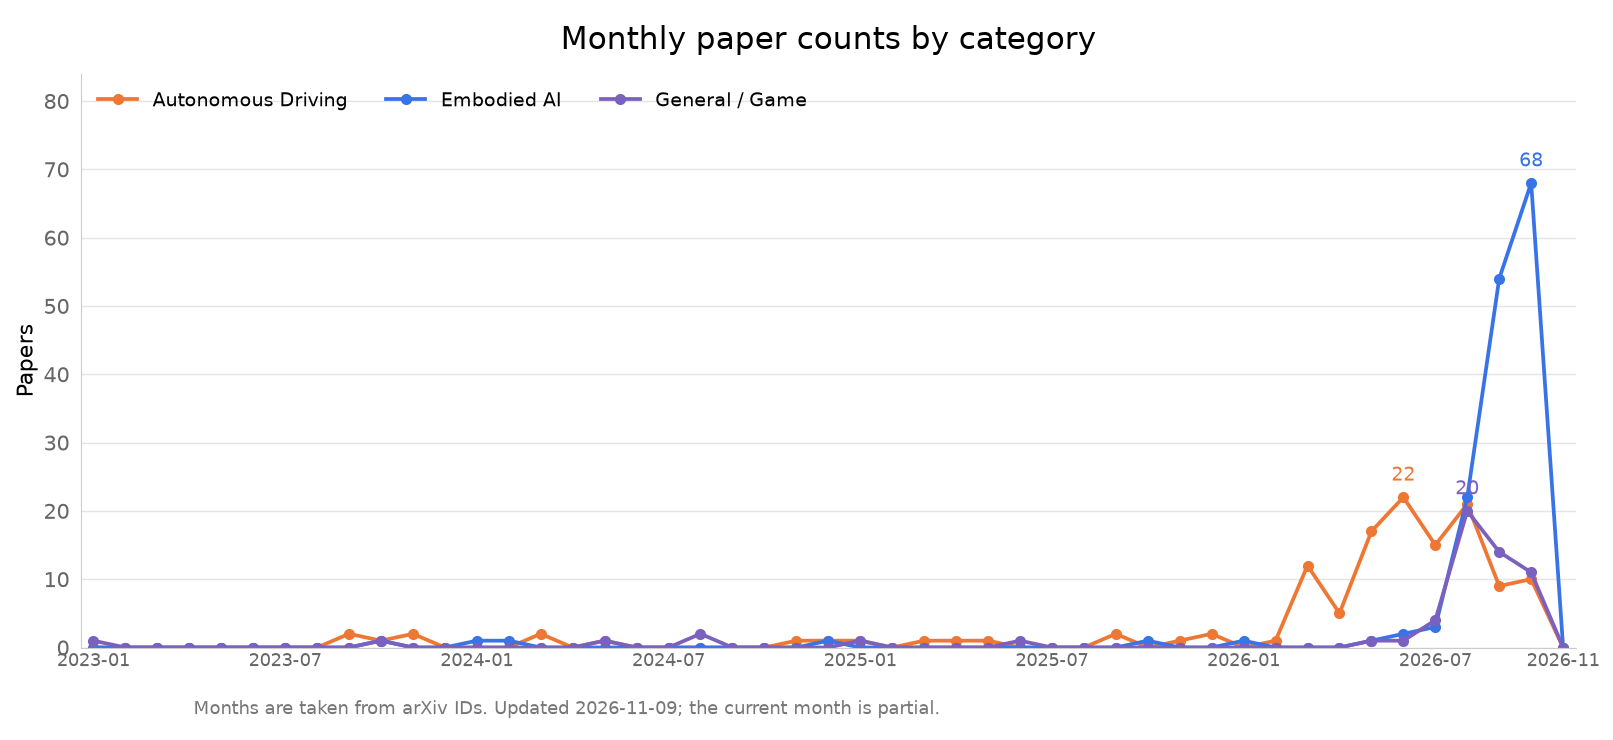
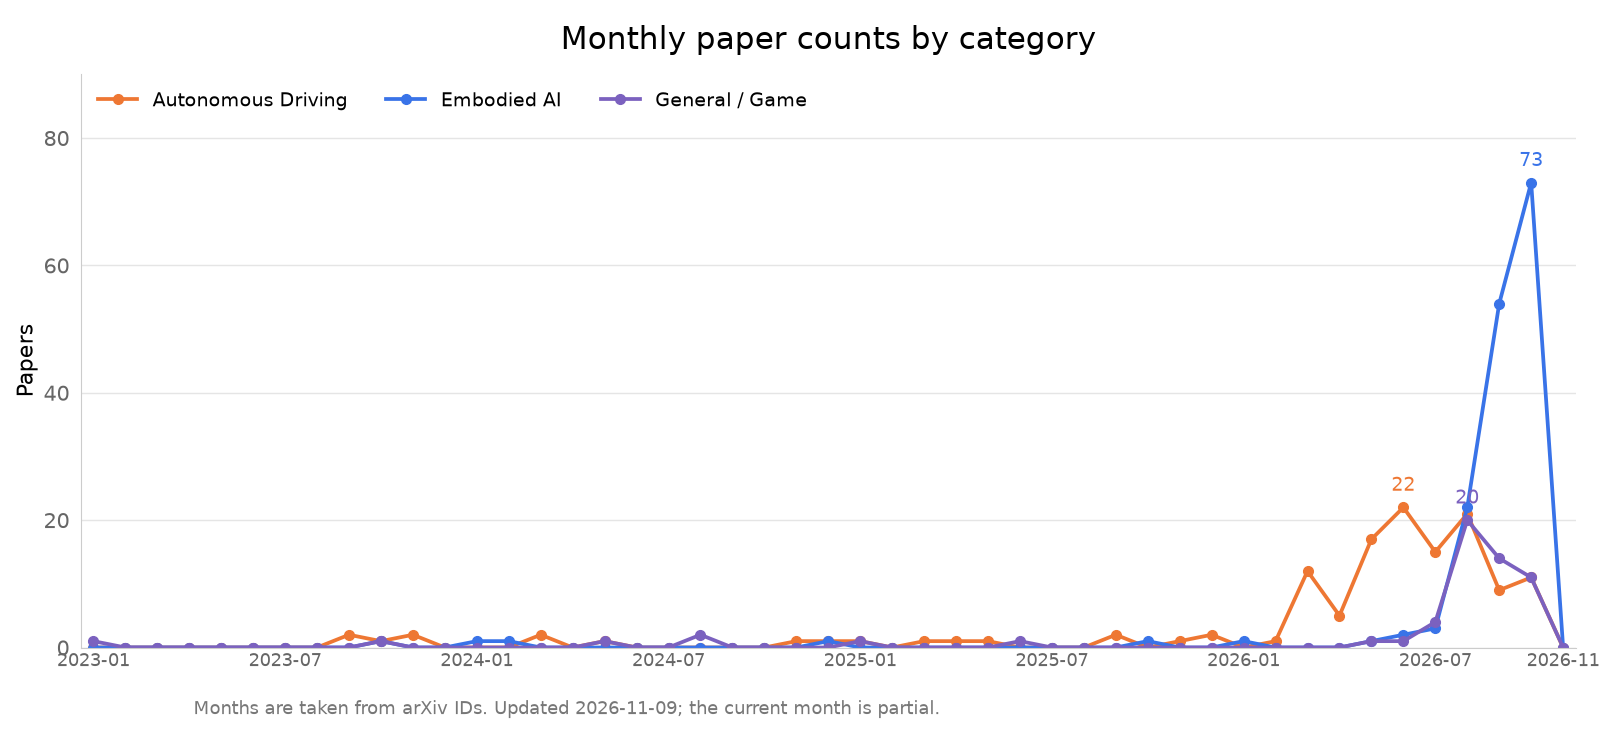
[update] WAC, AWAM, LAW, ORD-WA, BeJEPA

diff --git a/README.en.md b/README.en.md
@@ -10,7 +10,7 @@
 
 World models learn dynamic representations of their environments to predict and imagine the future. Interactive world models further support action-conditioned generation and control, providing data engines, neural simulators, and a foundation for policy learning in autonomous driving and embodied AI. This repository collects representative work, organized by application domain and annotated with its interactive capabilities.
 
-📊 **345** papers collected | Last updated: 2026-11-09
+📊 **351** papers collected | Last updated: 2026-11-09
 
 <p align="center">
   <img src="assets/interactive-world-model.en.svg" alt="Interactive world models: closed-loop interaction between agents and world models" width="760">
@@ -31,8 +31,8 @@ World models learn dynamic representations of their environments to predict and 
 
 ## Contents
 
-- [Autonomous Driving](#autonomous-driving) (131)
-- [Embodied AI](#embodied-ai) (156)
+- [Autonomous Driving](#autonomous-driving) (132)
+- [Embodied AI](#embodied-ai) (161)
 - [General / Game](#general--game) (58)
 
 ## Autonomous Driving
@@ -145,6 +145,7 @@ World models learn dynamic representations of their environments to predict and 
 | **VIScore**: Diagnosing Planning-Relevant Quality in Latent World Models | arXiv (2026) | Morgan Levine team | — | [Paper](https://arxiv.org/abs/2608.11174) | An evaluation score diagnosing planning-relevant quality issues in latent world models. |
 | **VehDyn**: A Driving World Model Benchmark for Vehicle Dynamics | arXiv (2026) | The University of Texas at Austin / University of California, Berkeley | — | [Paper](https://arxiv.org/abs/2609.33264) | Pairs CARLA images with CarSim multibody dynamics in 10080 full-factorial configurations, synchronously recording position, velocity, and pose, and evaluates trajectory, kinematic, and dynamics consistency for 12 driving-video world models. Trajectory metrics for 10/12 models are already within 20% of ground truth, but no model reaches 92% of ground-truth dynamics consistency; visual quality and dynamics scores are only weakly correlated. DrivingWorld ranks highest, followed by Cosmos 3 Nano and LTX-Video 2.5. Data and metrics will be released after acceptance. |
 | **WCog-VLA**: A Dual-Level World-Cognitive Vision-Language-Action Model for End-to-End Autonomous Driving | arXiv (2026) | Binyang Song team | — | [Paper](https://arxiv.org/abs/2607.08375) | Combines semantic-level world cognition and generative-level world evolution, with game-theoretic chain reasoning and multi-agent trajectory generation. |
+| **WAC**: World Action Critic (WAC) Model: Joint Foresight and Criticism for Policy Learning | arXiv (2026) | Tsinghua University / Didi Autonomous Driving / SunRisingAI Lab | 🎮 | [Paper](https://arxiv.org/abs/2610.22825) | Conditions future latent states on candidate trajectories and uses critic losses to shape predictive features for action evaluation. Front-camera NAVSIM-v1 PDMS is 93.4. Without focal weighting, the full model scores 93.3, removing future supervision lowers it to 93.0, and blocking critic gradients lowers it to 92.3. Evaluation is log-based and open-loop, with no closed-loop driving. |
 | **World Engine**: Towards the Era of Post-Training for Autonomous Driving | arXiv (2026) | Hongyang Li team | 🔁 | [Paper](https://arxiv.org/abs/2606.19836) | Reconstructs high-fidelity interactive environments from real logs and extrapolates safety-critical variants to drive policy post-training. |
 | **World Models as Adversaries: Multi-Agent Self-Play Fine-Tuning for Robust Motion Planning** | arXiv (2026) | Wei Ma team | — | [Paper](https://arxiv.org/abs/2607.10630) | Turns predictive world models into role-based adversaries, using counterfactual credit assignment to learn sparse adversarial coalitions. |
 | **WorldDrive**: Bridging Scene Generation and Planning via Unifying Vision and Motion Representation | arXiv (2026) | Jianbing Shen team | — | [Paper](https://arxiv.org/abs/2603.14948) | A trajectory-aware driving world model unifying visual and motion representations, with a future-aware reward model selecting trajectories. |
@@ -176,13 +177,16 @@ World models learn dynamic representations of their environments to predict and 
 | Paper | Publication | Organization | Capabilities | Links | Summary |
 | :--- | :--- | :--- | :---: | :--- | :--- |
 | **AVL-JEPA**: Preventing Causal Dynamics Information Collapse in Joint Embedding Predictive Architecture World Models | arXiv (2026) | Central South University / Yanshan University | 🎮 🔁 | [Paper](https://arxiv.org/abs/2610.03587) | JEPA can preserve high-dimensional visual information while discarding physical changes caused by actions. AVL anchors dynamics with executed actions, then aligns latent predictions affected by visual distractors with clean predictions while keeping the action head frozen. Under Gaussian input noise, PushT success rises from 15.3% to 81.5% and TwoRoom from 65.7% to 88.7%. On clean OGBench Cube, it rises from 73.2% to 78.2%. |
+| **AWAM**: Active Trajectory-Conditioned View Imagination for Robust Robot Manipulation | arXiv (2026) | Fudan University / Shanghai Innovation Institute | 🔁 | [Paper](https://arxiv.org/abs/2610.23396) | Queries a geometry-conditioned world model with a virtual camera trajectory, compresses the result into a fixed perceptual memory, and fuses it with live observations for closed-loop manipulation. Removing that memory lowers LIBERO-Occ success from 75.9% to 64.4%. Three real-robot tasks succeed in 85/90 trials. Imagination follows an observation trajectory rather than robot-action consequences, and the memory is not updated during execution. |
 | **ALONE**: Acting from Belief, Looking When Needed: A Bayesian Spatial World Model for Navigation under Intermittent Perception | arXiv (2026) | Qiyuan Lab / Tsinghua University | 🎮 🔁 | [Paper](https://arxiv.org/abs/2610.11591) | Geometrically transports spatial beliefs using executed actions, then learns completion and observation correction, using reliability maps to decide when to reacquire depth. All 10 drone trials in an indoor Lattice environment complete 10-meter navigation, acquiring depth on 7.0% of decision steps. Validation covers static environments only and still relies on visual-inertial odometry for belief propagation. |
 | **Action Jets**: Learning the Local Shape of the Action-conditioned Data Manifold | arXiv (2026) | University of Michigan | 🎮 | [Paper](https://arxiv.org/abs/2610.19007) \| [Project](https://anton-arapin.github.io/action-jets-site/) | Extracts action tangents from a frozen generator and learns third-order corrections, then evaluates candidate action outcomes in batches with polynomials. In offline verification of 32 action candidates on BridgeData V2, action MSE is 0.025 versus 0.030 for IRASim. Zero action is constrained to the identity map; evaluation is short-horizon and open-loop, with worse image quality than IRASim at steps 3–4. |
 | **Rollout Truncation**: Adaptive Rollout Truncation Based on Epistemic Uncertainty for Efficient Offline World Model Training | arXiv (2026) | TUM | 🎮 ⏳ | [Paper](https://arxiv.org/abs/2609.21482) | Multi-step autoregression extends world-model predictions, but fixed rollout lengths amplify early errors and waste computation while the model remains inaccurate. After warm-up, a rollout is truncated when epistemic uncertainty exceeds a threshold. On ANYmal-D, prediction accuracy is comparable to fixed-length rollouts and RWM-U, with approximately 72% less rollout computation. |
 | **AnisoWM**: Anisotropic Representations Improve Planning in JEPA World Models | arXiv (2026) | Seoul National University / Ewha Womans University | 🎮 🔁 | [Paper](https://arxiv.org/abs/2609.37441) \| [Project](https://rkdrn79.github.io/AnisoWM-page/) | Keeps the predictor and Euclidean planner unchanged, replacing only an isotropic Gaussian target with a learnable diagonal covariance. Planning success exceeds LeWM in all four environments: TwoRoom rises from 87% to 93%, Reacher from 86% to 89%, PushT from 96% to 97%, and Cube from 74% to 79%. Spearman correlation between latent cost and task cost increases from 0.15 to 0.91 on Cube and from 0.65 to 0.92 on PushT. |
 | **AnyWorld**: Factorized Egocentric World Models for Cross-Embodiment Generalization | arXiv (2026) | — | 🎮 | [Paper](https://arxiv.org/abs/2608.29242) | Decomposes a single human interaction into three controllable factors: action, camera, and embodiment. Action control captures motion structure, camera control specifies viewpoint evolution, and target-embodiment context defines the executing body and its interaction geometry. Without paired human-robot demonstrations, an egocentric human video can be recomposed into diverse robot-native rollouts while preserving the underlying dynamics and object interactions. Following large-scale human-interaction pretraining and mixed-embodiment fine-tuning, generated data improve manipulation on the RoboCasa GR1 tabletop benchmark and the real IRON humanoid robot. Ablations show that both action calibration and visual recomposition are necessary. |
 | **Back on Track**: Deployment-time Policy Improvement via World Model Planning | arXiv (2026) | Stanford University / University of Southern California | 🎮 🔁 | [Paper](https://arxiv.org/abs/2610.19579) \| [Project](https://policy-improvement-wm.pages.dev/) | A policy-conditioned liveness value monitors execution and guides short corrective plans in a latent world model; across 3,000 paired trials on perturbed LIBERO-Goal, π0.5 success rises from 72.6% to 81.5%. Policy- and task-specific data are required, and model errors can still disrupt otherwise successful executions. |
+| **BeJEPA**: A Goal-Conditioned Humanoid Behavior World Model via Unsupervised RL | arXiv (2026) | Shanghai Jiao Tong University / Shanghai Innovation Institute / Zhejiang University / Tongji University / Fudan University / Lenovo Research | 🎮 🔁 | [Paper](https://arxiv.org/abs/2610.23127) \| [Project](https://ylyem9x.github.io/BeJEPA-project/) | An action-conditioned dynamic predictor forecasts the next state embedding and refines actions online. In 20-second motion tracking, global body-position error falls by 61.7% relative to BFM-Zero with world-pose inputs. Disturbance recovery and getting up on a Unitree G1 are qualitative demonstrations. |
 | **Continual WM Bench**: Benchmarking World Models for Continual Learning on Compositional Tasks | arXiv (2026) | Oxford | — | [Paper](https://arxiv.org/abs/2609.22055) | A continual-learning benchmark for manipulation world models. New tasks at the end of the curriculum recombine action and perceptual factors from previously seen tasks, separating fast learning from the ability to reuse learned dynamics. Modular dynamics better balance reuse and forgetting than conventional continual-learning methods, but no method fully solves the problem. |
+| **HIJP**: Beyond Action Prediction: Learning Search-Free Planning in Latent Space | arXiv (2026) | Nanjing University of Science and Technology / University of Oxford / Singapore University of Technology and Design / Adelaide University | 🎮 🔁 | [Paper](https://arxiv.org/abs/2610.23615) | A goal-conditioned inverse model alternates with an action-conditioned latent predictor to build multi-step plans without test-time action search. Across four visual-control tasks, 16 difficulty combinations, and 50 episodes each, overall success is 86.8%, 4.9 points above the strongest baseline. Removing transition consistency lowers average success on 12 combinations from 82.5% to 76.0%. Evaluation is simulation-only, with a fixed planning horizon. |
 | **HF-WM**: Beyond Successful Robot Demonstrations: Learning from Human Interactions and Modeling Failure Dynamics | arXiv (2026) | Zhejiang University / Beijing Zhongguancun Academy / University of Science and Technology of China / Eastern Institute of Technology / Institute of Automation, Chinese Academy of Sciences | 🎮 🔁 | [Paper](https://arxiv.org/abs/2610.13522) \| [Project](https://peiyantu.github.io/HF-WM/) | Stabilized pointflow couples human and robot interaction learning, while action perturbations and GRPO train failure dynamics; success-rate estimates have a mean absolute error of 2.41 percentage points across six policies with 90 matched hardware sessions each, but scoring relies on VLMs and closed-loop gains are validated only on LIBERO-90. |
 | **Dual-WM**: Beyond a Single Latent Space: A Dual-Latent World Model for Long-Horizon Planning | arXiv (2026) | Nanjing University / Shanghai Jiao Tong University / Shenzhen Institutes of Advanced Technology / Shenzhen University of Advanced Technology | 🎮 🔁 ⏳ | [Paper](https://arxiv.org/abs/2609.37644) \| [Code](https://github.com/DeLin1001/Dual-WM-Official) | Uses low-level latent space for fine-grained action transitions and learned macro-actions at the high level for long-horizon subgoals. Across five goal-conditioned visual-control tasks, average success rises from 75.9% to 84.4% for a 50-step goal offset and from 61.4% to 69.5% for a 100-step offset. At 100 steps, it exceeds LeWM by 30.8 percentage points. |
 | **CF-JEPA**: Improving Robustness of JEPA World Models via Controllability Factorization | arXiv (2026) | Georgia Institute of Technology / Georgia Tech Research Institute | 🎮 🔁 | [Paper](https://arxiv.org/abs/2610.00727) | Splits JEPA's latent space into controllable and uncontrollable components and plans only with the controllable component. Under two visual distractors, LeWM collapses on all tasks; Reacher success is 0.10 for SMWM and 0.48 for CF-JEPA. With additional distractors, SMWM's PushT and TwoRoom success drops from 0.86 and 0.98 to 0.27 and 0.46, while CF-JEPA maintains 0.57 and 0.82. |
@@ -244,6 +248,7 @@ World models learn dynamic representations of their environments to predict and 
 | **JEPA-TTT**: Persistent Test-Time Training of Latent World Models for Planning under Dynamics Shifts | arXiv (2026) | Honda Research Institute / Johns Hopkins University | 🎮 🔁 | [Paper](https://arxiv.org/abs/2610.00722) \| [Project](https://jepa-ttt.github.io/) | At test time, updates only the latent-dynamics predictor of a pretrained JEPA, freezing the encoder and reward head, with updates accumulating across episodes. Across four continuous-control environments and eight dynamics shifts, after 500 test episodes, autoregressive latent-prediction error decreases by an average of 83%, and planning performance is 153% higher than frozen JEPA. Planning requires no goal images or online environment rewards. |
 | **JEPA-x**: Cross-Predictive Physics Grounding for Forecastable Latent Dynamics | arXiv (2026) | NUS | 🎮 🔁 | [Paper](https://arxiv.org/abs/2608.24044) | Also called XP-JEPA. During training, visual observations and privileged physical states are treated as two views of the same action-conditioned trajectory for cross-prediction, constraining latent dynamics to be more predictable. The physical branch is discarded at deployment; multi-task control success rises from 53.6% to 78.2%. |
 | **Juno**: Taming Predictive Latents for Vision-Language-Action Models | arXiv (2026) | Eastern Institute of Technology, Ningbo / University of Science and Technology of China / Hangzhou Dianzi University / ShanghaiTech University | 🎮 🔁 | [Paper](https://arxiv.org/abs/2610.09940) \| [Project](https://juno-policy.github.io/) \| [Code](https://github.com/ZhuYuChenNO1/Juno) | Uses dynamic-CLS pretraining of an action-conditioned JEPA and a separate future-state distillation branch to support a VLA. At deployment, successful and failed interactions first adapt dynamics, then verified successful executions realign the policy. Average SimplerEnv success rises from Qwen3GR00T's 60.9% to 68.5%, reaching 72.7% with test-time adaptation. |
+| **LAW**: Unifying Language, Action, and World Modeling for Agentic Physical Intelligence | arXiv (2026) | Peking University / Beijing Innovation Center of Humanoid Robotics | 🔁 | [Paper](https://arxiv.org/abs/2610.23334) \| [Project](https://hey-cjj.github.io/LAW-project/) \| [Code](https://github.com/hey-cjj/LAW) | Jointly predicts video and actions during training, then fuses action chunks with a value expert at inference without generating future video. Average success across 50 RoboTwin tasks is 94.21%, versus 91.83% for Fast-WAM. Three long-horizon real-robot tasks average 65% over 20 trials each, versus 28.33% for π0.5. With matched parameter counts, the shared expert raises MoTE from 91.93% to 92.67%. |
 | **LeWAM (Fu et al.)**: LeWAM: End-to-End World and Action Modeling with JEPAs | arXiv (2026) | UC San Diego / ETH Zurich / University of British Columbia / Brown University | 🎮 🔁 | [Paper](https://arxiv.org/abs/2610.12818) \| [Project](https://le-wam.github.io/) \| [Code](https://github.com/MinghaoFu/lewam) | Jointly trains action-conditioned latent-state prediction and action flow matching with SIGReg regularization; mean visual-goal planning success is 93.5% across ten simulated tasks versus 50.9% for LeWM (CEM), while mean closed-loop success across three physical-robot tasks is 33.3%; models are still trained separately per task and robot. |
 | **LiteNWM**: Efficient Latent World Models for Onboard Visual Navigation in the Wild | arXiv (2026) | Nanjing University / Imperial College London / Sony AI / Beijing University of Posts and Telecommunications | 🎮 🔁 | [Paper](https://arxiv.org/abs/2610.12368) | Shares visual encoding to jointly predict candidate-action latents at four future horizons, then uses relative scoring to select trajectories from a frozen policy. Across three scenes and 30 Go2 trials per method, success rises from NoMaD's 43.3% to 83.3%. Planning calls average 2.228 seconds on Jetson Orin; this is not frame-rate real-time generation. |
 | **LoopWAM**: Closed-Loop Generalist Policy Improvement from Deployment Rollouts | arXiv (2026) | Tsinghua University / Dexmal / Loopeva | 🔁 | [Paper](https://arxiv.org/abs/2610.18873) \| [Project](https://loop-wam.github.io/) \| [Code](https://github.com/loop-wam/LoopWAM) | Quality-weighted parallel video–action denoising learns from successful and failed deployment experience; three collection-and-retraining rounds raise Table30-V2 success from 23.67% to 43.33%, requiring quality labels and additional real-robot collection. |
@@ -253,6 +258,7 @@ World models learn dynamic representations of their environments to predict and 
 | **MiniWAM**: Learning Compact Future Targets for Efficient World-Action Modeling | arXiv (2026) | National University of Singapore / Nanyang Technological University / A*STAR Institute of Advanced Intelligence and Computing | 🔁 | [Paper](https://arxiv.org/abs/2610.12194) \| [Project](https://j1dan.github.io/MiniWAM/) \| [Code](https://github.com/J1dan/MiniWAM-release) | First compresses current-to-future transitions into PRISM representations using inverse dynamics and feature reconstruction, then jointly predicts those representations and robot actions. With the same 0.25B world-action architecture and Stage-2 training, the DINOv3 variant improves success on the fixed LIBERO-Plus-2K subset from 60.9% with native future-feature targets to 74.1%. Evaluation is simulation-only, and PRISM is still learned separately for each downstream setting. |
 | **Motus2**: A Self-Evolving General World Model for Dexterous Manipulation | arXiv (2026) | Tsinghua University (Jun Zhu / Fan Bao team) | 🎮 🔁 | [Paper](https://arxiv.org/abs/2608.30237) | Moves beyond the paradigm of attaching an action head to a simulator. A single model with shared weights exposes three control interfaces to form a closed-loop decision-learning cycle: the policy (world-action model) proposes candidate action chunks, the simulator (action-conditioned world model) predicts visual consequences, and the evaluator (value model) assesses the predicted results, enabling policy self-improvement. Expert demonstrations support action learning, while failed and suboptimal interactions provide valuable evidence for dynamics modeling and value learning. Data expand from monocular egocentric video to synchronized stereo egocentric data before robot-domain adaptation. The work also studies global autoregression and hybrid memory to extend sliding-window context, and incorporates touch for contact-aware control, validated on a fully anthropomorphic platform with stereo vision, dual arms, and dexterous hands. |
 | **No Free Checker: A Survey of Verifiers for Robot Policies** | arXiv (2026) | Zhejiang University | — | [Paper](https://arxiv.org/abs/2609.09250) \| [Code](https://github.com/ZJUSCL/Awesome-Robot-Verifier) | Surveys approximately 150 robot-policy verifiers, including success detectors, reward models, runtime monitors, safety filters, temporal logic, and world-model evaluations. It compares four types of judges—human, rule-based/formal, learned, and model-inherent—along availability and trustworthiness. The conclusion is that trustworthiness decreases as availability increases; there is no free checker. |
+| **ORD-WM**: Learning Object-Centric Rigid Dynamics for 3D World Modeling in Robotic Manipulation | arXiv (2026) | Harbin Institute of Technology, Shenzhen | 🎮 🔁 | [Paper](https://arxiv.org/abs/2610.23156) \| [Project](https://hitsz-wyy.github.io/ORD-WM/) | Predicts an action-conditioned SE(3) increment for each object and applies it analytically to a geometric latent. Against PointWorld fine-tuned on LIBERO, full-trajectory moving-point error falls from 225.68 mm to 37.60 mm, with shape-consistency Chamfer distance 0. Real pushing with 1,024 candidates reaches 90% success and 0.972 cm position error; the table does not state the trial count, and the model covers rigid bodies only. |
 | **RoboActualizer**: One from Infinity: Actualizing Futures from Pretrained World Models into Robot Actions | arXiv (2026) | University of California, Berkeley | 🎮 🔁 | [Paper](https://arxiv.org/abs/2609.36413) \| [Project](https://zhao-sq.github.io/RoboActualizer/) \| [Code](https://github.com/7mare/RoboActualizer) | Freezes a V-JEPA 2.1 encoder and uses a 60M actualizer above it to jointly predict future latent states and actions. Average LIBERO success is 98.0%. When trained only on LIBERO demonstrations without perturbation augmentation, LIBERO-Plus success is 63.1%, compared with 51.5% for Fast-WAM (6.02B trainable parameters). Peak memory on one GPU is 32 GB and inference takes 39 ms. Trainable parameters are reduced by up to approximately 100×. |
 | **PAVXploreRL**: Physical-Action-Visual World Model Reinforcement Learning with Action Exploration | arXiv (2026) | Sun Yat-sen University / SUTD | 🎮 🔁 | [Paper](https://arxiv.org/abs/2607.16602) \| [Code](https://github.com/Social-AI-Studio/PAVXploreRL) | Uses reinforcement learning on a pretrained latent world model to jointly optimize physical plausibility, action following, and visual fidelity. Noise-driven exploration of out-of-distribution actions supplements actions not covered by expert trajectories. As a policy evaluator, it improves average metrics by 5.6% and mitigates the overestimation of policy success by world models such as Ctrl-World that have seen only expert actions. |
 | **PILOT**: Guiding Long-Horizon World-Model Planning for Robot Manipulation with Visual Subgoals and Policy Priors | arXiv (2026) | University of Minnesota | 🎮 🔁 | [Paper](https://arxiv.org/abs/2610.14335) \| [Project](https://pilot-planner.github.io/) | Guides policy-initialized CEM with video subgoals and evaluates actions through a receding-horizon action-conditioned JEPA world model. Across four UR5e tasks it succeeds in 55/80 trials (68.8%), versus 44/80 (55.0%) without policy initialization. Wan and the policy each use the same 40 demonstrations, while the world model additionally uses roughly five hours of random interaction; fixed subgoal timing limits failure recovery. |

diff --git a/README.md b/README.md
@@ -10,7 +10,7 @@
 
 世界模型 (World Model) 通过学习环境的动态表征，实现对未来的预测与想象； 可交互世界模型进一步支持以动作 (action) 为条件的生成与控制， 为自动驾驶和具身智能提供数据引擎、神经仿真器与策略学习基础。 本仓库收录并整理该方向的代表性工作，按应用场景分类， 并标注每篇工作的交互能力维度。
 
-📊 共收录 **345** 篇工作 ｜ 最后更新：2026-11-09
+📊 共收录 **351** 篇工作 ｜ 最后更新：2026-11-09
 
 <p align="center">
   <img src="assets/interactive-world-model1.png" alt="交互式世界模型：智能体与世界模型的闭环交互" width="760">
@@ -31,8 +31,8 @@
 
 ## 目录
 
-- [自动驾驶 Autonomous Driving](#自动驾驶-autonomous-driving)（131）
-- [具身智能 Embodied AI](#具身智能-embodied-ai)（156）
+- [自动驾驶 Autonomous Driving](#自动驾驶-autonomous-driving)（132）
+- [具身智能 Embodied AI](#具身智能-embodied-ai)（161）
 - [通用 / 游戏 General / Game](#通用--游戏-general--game)（58）
 
 ## 自动驾驶 Autonomous Driving
@@ -145,6 +145,7 @@
 | **VIScore**: Diagnosing Planning-Relevant Quality in Latent World Models | arXiv (2026) | Morgan Levine 团队 | — | [论文](https://arxiv.org/abs/2608.11174) | 诊断潜世界模型中与规划相关的质量问题的评价分数。 |
 | **VehDyn**: A Driving World Model Benchmark for Vehicle Dynamics | arXiv (2026) | 得克萨斯大学奥斯汀分校 / 加州大学伯克利分校 | — | [论文](https://arxiv.org/abs/2609.33264) | 用 CARLA 画面配 CarSim 多体动力学，10080 组全因子配置，同步记录位置、速度和姿态，评 12 个驾驶视频世界模型的轨迹、运动学和动力学一致性。10/12 的轨迹指标已在真值 20% 以内，动力学一致性没有模型达到真值的 92%，画质和动力学得分只弱相关。DrivingWorld 最高，其后是 Cosmos 3 Nano 和 LTX-Video 2.5。数据和指标在接收后放出。 |
 | **WCog-VLA**: A Dual-Level World-Cognitive Vision-Language-Action Model for End-to-End Autonomous Driving | arXiv (2026) | Binyang Song 团队 | — | [论文](https://arxiv.org/abs/2607.08375) | 语义级世界认知 + 生成级世界演化双层级，博弈链式推理与多智能体轨迹生成。 |
+| **WAC**: World Action Critic (WAC) Model: Joint Foresight and Criticism for Policy Learning | arXiv (2026) | Tsinghua University / Didi Autonomous Driving / SunRisingAI Lab | 🎮 | [论文](https://arxiv.org/abs/2610.22825) | 用候选轨迹条件化未来潜状态，并用评论损失把预测特征拉向动作评价。仅前相机的 NAVSIM-v1 PDMS 为 93.4。去掉 focal 后，完整模型为 93.3，去掉未来监督降到 93.0，阻断评论梯度降到 92.3。评测是日志开环，没有闭环驾驶。 |
 | **World Engine**: Towards the Era of Post-Training for Autonomous Driving | arXiv (2026) | Hongyang Li 团队 | 🔁 | [论文](https://arxiv.org/abs/2606.19836) | 从真实日志重建高保真交互环境并外推安全关键变体，驱动策略后训练。 |
 | **World Models as Adversaries: Multi-Agent Self-Play Fine-Tuning for Robust Motion Planning** | arXiv (2026) | Wei Ma 团队 | — | [论文](https://arxiv.org/abs/2607.10630) | 将预测世界模型转化为角色化对手，通过反事实信用分配学习稀疏对抗联盟。 |
 | **WorldDrive**: Bridging Scene Generation and Planning via Unifying Vision and Motion Representation | arXiv (2026) | Jianbing Shen 团队 | — | [论文](https://arxiv.org/abs/2603.14948) | 轨迹感知驾驶世界模型统一视觉与运动表征，未来感知奖励器选优轨迹。 |
@@ -176,13 +177,16 @@
 | 论文 | 发表 | 机构 | 交互能力 | 链接 | 一句话点评 |
 | :--- | :--- | :--- | :---: | :--- | :--- |
 | **AVL-JEPA**: Preventing Causal Dynamics Information Collapse in Joint Embedding Predictive Architecture World Models | arXiv (2026) | 中南大学 / 燕山大学 | 🎮 🔁 | [论文](https://arxiv.org/abs/2610.03587) | JEPA 可以保住高维视觉信息，同时丢掉动作造成的物理变化。AVL 用已执行动作锚定动力学，再把受视觉干扰的潜预测对齐到干净预测，动作头保持冻结。高斯输入噪声下，PushT 成功率从 15.3% 到 81.5%，TwoRoom 从 65.7% 到 88.7%。干净的 OGBench Cube 从 73.2% 到 78.2%。 |
+| **AWAM**: Active Trajectory-Conditioned View Imagination for Robust Robot Manipulation | arXiv (2026) | Fudan University / Shanghai Innovation Institute | 🔁 | [论文](https://arxiv.org/abs/2610.23396) | 用虚拟相机轨迹查询几何条件世界模型，把想象结果压成固定感知记忆，再与实时观测融合做闭环操作。LIBERO-Occ 去掉该记忆后，成功率从 75.9% 降到 64.4%。三真机任务共 85/90。想象的是观察轨迹，不是机器人动作后果，记忆在执行过程中不更新。 |
 | **ALONE**: Acting from Belief, Looking When Needed: A Bayesian Spatial World Model for Navigation under Intermittent Perception | arXiv (2026) | 启元实验室 / 清华大学 | 🎮 🔁 | [论文](https://arxiv.org/abs/2610.11591) | 先按已执行动作几何搬运空间信念，再学习补全与观测修正，并用可靠性图决定何时重新获取深度。室内 Lattice 环境的 10 次无人机试验全部完成 10 米导航，深度采集占决策步的 7.0%；仅验证静态环境，仍依赖视觉惯性里程计传播信念。 |
 | **Action Jets**: Learning the Local Shape of the Action-conditioned Data Manifold | arXiv (2026) | University of Michigan | 🎮 | [论文](https://arxiv.org/abs/2610.19007) \| [项目](https://anton-arapin.github.io/action-jets-site/) | 从冻结生成器提取动作切线并学习三阶校正，随后用多项式批量评估动作后果。BridgeData V2 离线 32 候选动作验证中，动作 MSE 为 0.025，IRASim 为 0.030；零动作被约束为恒等映射，仅验证短时开环，第 3–4 步画质落后于 IRASim。 |
 | **Rollout Truncation**: Adaptive Rollout Truncation Based on Epistemic Uncertainty for Efficient Offline World Model Training | arXiv (2026) | TUM | 🎮 ⏳ | [论文](https://arxiv.org/abs/2609.21482) | 多步自回归能拉长世界模型的预测，但固定展开长度在模型还不准时会放大早期错误并浪费计算。热身之后，认知不确定性超过阈值就截断这次展开。在 ANYmal-D 上，预测精度与固定长度和 RWM-U 相当，展开计算大约少 72%。 |
 | **AnisoWM**: Anisotropic Representations Improve Planning in JEPA World Models | arXiv (2026) | 首尔大学 / 梨花女子大学 | 🎮 🔁 | [论文](https://arxiv.org/abs/2609.37441) \| [项目](https://rkdrn79.github.io/AnisoWM-page/) | 预测器和欧氏规划器不动，只把各向同性高斯目标换成可学习的对角协方差。四个环境的规划成功率都高于 LeWM：TwoRoom 87% 到 93%，Reacher 86% 到 89%，PushT 96% 到 97%，Cube 74% 到 79%。Cube 上潜代价与任务代价的 Spearman 相关从 0.15 到 0.91，PushT 从 0.65 到 0.92。 |
 | **AnyWorld**: Factorized Egocentric World Models for Cross-Embodiment Generalization | arXiv (2026) | — | 🎮 | [论文](https://arxiv.org/abs/2608.29242) | 把单次人类交互分解为动作、相机、本体三个可控因子——动作控制捕捉运动结构、相机控制指定视角演化、目标本体上下文定义执行身体及其交互几何，无需成对 human-robot 演示即可将一段第一视角人类视频重组合成多样的机器人原生 rollout，同时保留底层动力学与物体交互；经大规模人类交互预训练+混合本体微调，生成数据可提升 RoboCasa GR1 桌面基准与真机 IRON 人形机器人操作性能，消融表明动作校准与视觉重组合二者缺一不可。 |
 | **Back on Track**: Deployment-time Policy Improvement via World Model Planning | arXiv (2026) | Stanford University / University of Southern California | 🎮 🔁 | [论文](https://arxiv.org/abs/2610.19579) \| [项目](https://policy-improvement-wm.pages.dev/) | 以策略条件活性价值监测执行并引导潜空间世界模型的短时纠偏，在扰动 LIBERO-Goal 的 3,000 次配对试验中将 π0.5 成功率从 72.6% 提升至 81.5%；需策略与任务相关数据，模型误差仍会破坏原本成功的执行。 |
+| **BeJEPA**: A Goal-Conditioned Humanoid Behavior World Model via Unsupervised RL | arXiv (2026) | Shanghai Jiao Tong University / Shanghai Innovation Institute / Zhejiang University / Tongji University / Fudan University / Lenovo Research | 🎮 🔁 | [论文](https://arxiv.org/abs/2610.23127) \| [项目](https://ylyem9x.github.io/BeJEPA-project/) | 用动作条件动态预测器预测下一状态嵌入，并在线修正动作。20 秒运动跟踪中，相对带世界位姿输入的 BFM-Zero，全局身体位置误差下降 61.7%。Unitree G1 上的扰动恢复和起身是定性演示。 |
 | **Continual WM Bench**: Benchmarking World Models for Continual Learning on Compositional Tasks | arXiv (2026) | Oxford | — | [论文](https://arxiv.org/abs/2609.22055) | 操作世界模型的持续学习基准。课程末尾的新任务由已见任务的动作因素和感知因素重新组合，从而把学得快和会不会复用已学动力学拆开。模块化动力学比常规持续学习方法更平衡复用和遗忘，但没有一种方法把这个问题做完。 |
+| **HIJP**: Beyond Action Prediction: Learning Search-Free Planning in Latent Space | arXiv (2026) | Nanjing University of Science and Technology / University of Oxford / Singapore University of Technology and Design / Adelaide University | 🎮 🔁 | [论文](https://arxiv.org/abs/2610.23615) | 目标条件逆模型与动作条件潜预测交替生成多步计划，测试时不做动作搜索。四项视觉控制、16 个难度组合、各 50 次的总成功率为 86.8%，比最强基线高 4.9 个百分点。去掉转移一致性后，12 个组合的平均成功率从 82.5% 降到 76.0%。只在仿真中验证，规划时程固定。 |
 | **HF-WM**: Beyond Successful Robot Demonstrations: Learning from Human Interactions and Modeling Failure Dynamics | arXiv (2026) | 浙江大学 / 北京中关村学院 / 中国科学技术大学 / 宁波东方理工大学 / 中科院自动化所 | 🎮 🔁 | [论文](https://arxiv.org/abs/2610.13522) \| [项目](https://peiyantu.github.io/HF-WM/) | 以稳定点流联合学习人类与机器人交互，并用动作扰动及GRPO训练失败动力学；六策略各90个匹配实机会话的成功率估计平均绝对误差为2.41个百分点，但评分依赖VLM，闭环增益仅在LIBERO-90验证。 |
 | **Dual-WM**: Beyond a Single Latent Space: A Dual-Latent World Model for Long-Horizon Planning | arXiv (2026) | 南京大学 / 上海交通大学 / 深圳先进技术研究院 / 深圳理工大学 | 🎮 🔁 ⏳ | [论文](https://arxiv.org/abs/2609.37644) \| [代码](https://github.com/DeLin1001/Dual-WM-Official) | 低层潜空间做细粒度动作转移，高层用学到的宏动作做长程子目标。五个目标条件视觉控制任务上，目标偏移 50 步时平均成功率从 75.9% 到 84.4%，100 步时从 61.4% 到 69.5%。偏移 100 步时相对 LeWM 高 30.8 个百分点。 |
 | **CF-JEPA**: Improving Robustness of JEPA World Models via Controllability Factorization | arXiv (2026) | 佐治亚理工学院 / 佐治亚理工研究院 | 🎮 🔁 | [论文](https://arxiv.org/abs/2610.00727) | 把 JEPA 潜空间拆成可控和不可控两部分，规划只用可控部分。两个视觉干扰下，LeWM 在全部任务上坍缩；Reacher 上 SMWM 成功率 0.10，CF-JEPA 为 0.48。干扰再增加时，SMWM 的 PushT 和 TwoRoom 从 0.86、0.98 掉到 0.27、0.46，CF-JEPA 维持 0.57 和 0.82。 |
@@ -244,6 +248,7 @@
 | **JEPA-TTT**: Persistent Test-Time Training of Latent World Models for Planning under Dynamics Shifts | arXiv (2026) | 本田研究院 / 约翰斯·霍普金斯大学 | 🎮 🔁 | [论文](https://arxiv.org/abs/2610.00722) \| [项目](https://jepa-ttt.github.io/) | 测试时只更新预训练 JEPA 的潜动力学预测器，编码器和奖励头冻住，更新跨回合累积。四个连续控制环境、八种动力学偏移上，500 个测试回合后，自回归潜预测误差平均降 83%，规划成绩比冻结的 JEPA 高 153%。规划不需要目标图像或在线环境奖励。 |
 | **JEPA-x**: Cross-Predictive Physics Grounding for Forecastable Latent Dynamics | arXiv (2026) | NUS | 🎮 🔁 | [论文](https://arxiv.org/abs/2608.24044) | 亦称 XP-JEPA。训练时把视觉观测与特权物理状态当作同一动作条件轨迹的两个视图做交叉预测，约束潜在动力学更可预报；部署丢弃物理分支，多任务控制成功率从 53.6% 升至 78.2%。 |
 | **Juno**: Taming Predictive Latents for Vision-Language-Action Models | arXiv (2026) | 宁波东方理工大学 / 中国科学技术大学 / 杭州电子科技大学 / 上海科技大学 | 🎮 🔁 | [论文](https://arxiv.org/abs/2610.09940) \| [项目](https://juno-policy.github.io/) \| [代码](https://github.com/ZhuYuChenNO1/Juno) | 用动作条件 JEPA 的动态 CLS 预训练和独立未来状态蒸馏分支辅助 VLA；部署时先用成功与失败交互更新动力学，再用验证成功的执行对齐策略。SimplerEnv 平均成功率由 Qwen3GR00T 的 60.9% 升至 68.5%，加入测试时适应后为 72.7%。 |
+| **LAW**: Unifying Language, Action, and World Modeling for Agentic Physical Intelligence | arXiv (2026) | Peking University / Beijing Innovation Center of Humanoid Robotics | 🔁 | [论文](https://arxiv.org/abs/2610.23334) \| [项目](https://hey-cjj.github.io/LAW-project/) \| [代码](https://github.com/hey-cjj/LAW) | 训练期联合预测视频和动作，推理时用价值专家融合动作块，不生成未来视频。50 个 RoboTwin 任务平均成功率为 94.21%，Fast-WAM 为 91.83%；三真机长程任务各 20 次平均 65%，π0.5 为 28.33%。匹配参数量下，共享专家把 MoTE 从 91.93% 提到 92.67%。 |
 | **LeWAM (Fu et al.)**: LeWAM: End-to-End World and Action Modeling with JEPAs | arXiv (2026) | UC San Diego / ETH Zurich / University of British Columbia / Brown University | 🎮 🔁 | [论文](https://arxiv.org/abs/2610.12818) \| [项目](https://le-wam.github.io/) \| [代码](https://github.com/MinghaoFu/lewam) | 联合训练动作条件潜状态预测与动作流匹配，并用 SIGReg 稳定表征；十项模拟视觉目标规划平均成功率为 93.5%，对比 LeWM（CEM）的 50.9%；三项真机闭环任务平均成功率为 33.3%，仍按任务与机器人分别训练。 |
 | **LiteNWM**: Efficient Latent World Models for Onboard Visual Navigation in the Wild | arXiv (2026) | 南京大学 / 帝国理工学院 / Sony AI / 北京邮电大学 | 🎮 🔁 | [论文](https://arxiv.org/abs/2610.12368) | 共享视觉编码，一次预测候选动作在四个未来时刻的潜特征，再用相对打分器选择冻结策略的轨迹。三个场景、每方法共 30 次 Go2 真机试验中，成功率由 NoMaD 的 43.3% 提升至 83.3%；Jetson Orin 上规划调用均值 2.228 秒，未达到逐帧实时生成。 |
 | **LoopWAM**: Closed-Loop Generalist Policy Improvement from Deployment Rollouts | arXiv (2026) | Tsinghua University / Dexmal / Loopeva | 🔁 | [论文](https://arxiv.org/abs/2610.18873) \| [项目](https://loop-wam.github.io/) \| [代码](https://github.com/loop-wam/LoopWAM) | 以质量加权的并行视频–动作去噪吸收成功与失败部署经验；Table30-V2三轮采集及再训练将成功率从23.67%提高至43.33%，依赖质量标注与新增真机采集。 |
@@ -253,6 +258,7 @@
 | **MiniWAM**: Learning Compact Future Targets for Efficient World-Action Modeling | arXiv (2026) | 新加坡国立大学 / 南洋理工大学 / A*STAR IAIC | 🔁 | [论文](https://arxiv.org/abs/2610.12194) \| [项目](https://j1dan.github.io/MiniWAM/) \| [代码](https://github.com/J1dan/MiniWAM-release) | 先以逆动力学和特征重建把当前—未来转移压成 PRISM 表征，再联合预测该表征与机器人动作。相同 0.25B 世界动作架构和第二阶段训练下，DINOv3 版在固定 LIBERO-Plus-2K 子集的成功率由原生未来特征目标的 60.9% 升至 74.1%。仅有仿真评测，PRISM 仍需按下游设置单独学习。 |
 | **Motus2**: A Self-Evolving General World Model for Dexterous Manipulation | arXiv (2026) | 清华大学（Jun Zhu / Fan Bao 团队） | 🎮 🔁 | [论文](https://arxiv.org/abs/2608.30237) | 超越「仿真器外挂动作头」的范式，单模型共享权重暴露三个控制接口构成闭环决策-学习回路：策略（世界-动作模型）提出候选动作块、仿真器（动作条件世界模型）预测视觉后果、评估器（价值模型）评估预测结果，从而实现策略自我改进；专家演示用于动作学习，失败与次优交互则成为动力学建模与价值学习的宝贵证据。数据侧从单目第一视角视频扩展到同步双目第一视角数据再做机器人域适配，并研究全局自回归与混合记忆扩展滑动窗口上下文、引入触觉实现接触感知控制，在全仿人双目双臂灵巧手平台上验证。 |
 | **No Free Checker: A Survey of Verifiers for Robot Policies** | arXiv (2026) | 浙江大学 | — | [论文](https://arxiv.org/abs/2609.09250) \| [代码](https://github.com/ZJUSCL/Awesome-Robot-Verifier) | 综述约 150 个机器人策略验证器（成功检测、奖励模型、运行时监控、安全滤波、时序逻辑及世界模型评测），用可用性与可信性两个坐标比较人类、规则/形式化、学习型与模型内生四类裁判，结论是可信性随可用性上升而下降，没有免费的检查器。 |
+| **ORD-WM**: Learning Object-Centric Rigid Dynamics for 3D World Modeling in Robotic Manipulation | arXiv (2026) | Harbin Institute of Technology, Shenzhen | 🎮 🔁 | [论文](https://arxiv.org/abs/2610.23156) \| [项目](https://hitsz-wyy.github.io/ORD-WM/) | 按动作预测每个物体的 SE(3) 增量，并解析作用到几何潜变量上。相对在 LIBERO 上微调的 PointWorld，全程运动点误差从 225.68 mm 降到 37.60 mm，形状一致性 Chamfer 为 0。真机推动在 1024 个候选时成功率为 90%、位置误差 0.972 cm，表中未给出试验次数，且只覆盖刚体。 |
 | **RoboActualizer**: One from Infinity: Actualizing Futures from Pretrained World Models into Robot Actions | arXiv (2026) | 加州大学伯克利分校 | 🎮 🔁 | [论文](https://arxiv.org/abs/2609.36413) \| [项目](https://zhao-sq.github.io/RoboActualizer/) \| [代码](https://github.com/7mare/RoboActualizer) | 冻结 V-JEPA 2.1 编码器，上面用 60M 的实际化器同时预测未来潜状态和动作。LIBERO 平均成功率 98.0%。只在 LIBERO 示范上训练、不做扰动增强时，LIBERO-Plus 为 63.1%，Fast-WAM（6.02B 可训练参数）为 51.5%。单卡峰值显存 32 GB，推理 39 ms。可训练参数最多少约 100 倍。 |
 | **PAVXploreRL**: Physical-Action-Visual World Model Reinforcement Learning with Action Exploration | arXiv (2026) | 中山大学 / SUTD | 🎮 🔁 | [论文](https://arxiv.org/abs/2607.16602) \| [代码](https://github.com/Social-AI-Studio/PAVXploreRL) | 在预训练潜空间世界模型上，用强化学习同时优化物理合理性、动作跟随和视觉保真，并用噪声驱动的分布外动作探索补专家轨迹覆盖不到的动作。作为策略评测器，平均指标提升 5.6%，并减轻 Ctrl-World 这类只见过专家动作的世界模型对策略成功率的高估。 |
 | **PILOT**: Guiding Long-Horizon World-Model Planning for Robot Manipulation with Visual Subgoals and Policy Priors | arXiv (2026) | University of Minnesota | 🎮 🔁 | [论文](https://arxiv.org/abs/2610.14335) \| [项目](https://pilot-planner.github.io/) | 用视频子目标引导策略初始化的 CEM，并以动作条件 JEPA 世界模型滚动评价；UR5e 四任务成功 55/80（68.8%），去掉策略初始化为 44/80（55.0%）。除 Wan 与策略各用同批 40 示范外，世界模型另用约五小时随机交互；固定子目标时序限制失败恢复。 |

diff --git a/curation/2026-11-09.md b/curation/2026-11-09.md
@@ -155,3 +155,17 @@
 | [From Optical Flow to Safety: Visual Safety Certification via Scale-Free Relative Motion](https://arxiv.org/abs/2610.21374) | 不收录 | 用光流上的 Concurrent Learning 观测器估计当前归一化相对速度，再经碰撞锥 CBF-QP 修改控制。作者明确不重建度量世界模型，也没有训练可展开的未来动力学。TurtleBot3 100 次中 93 次无碰撞是安全滤波结果，不因导航实验质量而纳入。最新 v2。 [来源 1](https://arxiv.org/abs/2610.21374)、[来源 2](https://arxiv.org/html/2610.21374v2) |
 | [Can World and Action Modeling Benefit Each Other under Unified Causal Training?](https://arxiv.org/abs/2610.21095) | 收录 | 简称 OneWM。同一 MoT 中，干净指定动作条件化未来视频，并联合学习动作。相对 WAMmask，LIBERO 94.95 对 92.45，LIBERO-Plus 总成功率 59.27 对 53.37，RoboCasa365 36.68 对 28.32；同架构 LIBERO 上 Fast-WAM 仍为 97.60。世界预测相对只做干净动作条件视频的 WM，LIBERO PSNR 22.33→22.95、LPIPS 0.1529→0.1458。三真机任务各 15 次，图 3 平均成功率 48.9%→66.7%（早餐 66.7%→86.7%，插入 20.0%→40.0%，堆叠 60.0%→73.3%）。附录写明策略部署复用观测视频、不生成未来视频，故闭环是策略闭环；动作条件视频在单独预测协议中成立，标 action/closedloop。首页机构写为 MMLab@HKU、MVIG@SJTU、THU、SII、UCAS、IAAI Team，未展开的缩写按原文保留。项目页已核验，无代码链接。 [来源 1](https://arxiv.org/abs/2610.21095)、[来源 2](https://arxiv.org/html/2610.21095v1)、[来源 3](https://selen-suyue.github.io/OneWMNet) |
 | [EgoJEPA: Beyond Retargeting for Dexterous Manipulation from Egocentric Videos](https://arxiv.org/abs/2610.20904) | 收录 | 阶段 1 用手部运动差预测未来视觉表征，阶段 2 联合流匹配未来视觉与潜动作，阶段 3 只用轻量适配器接到机器人动作。五任务、三本体、每设置 20 次：域内平均 94%，域外 74%，比重定向高 9 个百分点（65%），仅机器人数据为 40%，VQ-VAE 重建对照为 63%。部署联合生成视觉与动作，没有指定机器人动作的反事实视频，故只标 closedloop。接触密集的域外任务仍下降。项目页已核验；文中 GitHub 是重定向基线 SDK，不写成模型代码。 [来源 1](https://arxiv.org/abs/2610.20904)、[来源 2](https://arxiv.org/html/2610.20904v1)、[来源 3](https://mengcaopku.github.io/EgoJEPA) |
+
+## Issue #47 — arXiv 候选论文更新 2026-10-19
+
+[原 issue](https://github.com/Zizizi-hao/Awesome-interactive-world-model-for-Pysical-Intelligence/issues/47)；候选 7 篇，收录 6 篇。API 检索 3/3 组完成。
+
+| 论文 | 结论 | 理由与核验来源 |
+| :--- | :--- | :--- |
+| [World Action Critic (WAC) Model: Joint Foresight and Criticism for Policy Learning](https://arxiv.org/abs/2610.22825) | 收录 | 32 条候选轨迹条件化未来场景潜状态和自车动态，评论头预测 NAVSIM 分项并反传到转移特征。前相机 NAVSIM-v1 PDMS 93.4。表 3 去掉 focal 后，完整模型 93.3，去掉未来监督 93.0，阻断评论梯度 92.3，说明未来监督有贡献但小于评论梯度。候选排序 Spearman 0.551 对 Drive-JEPA 的 0.468，但双方候选池不同。日志开环，只标 action。文中 GitHub 指向 DriveWAM 引用，不写成本文代码。机构为清华大学、滴滴与 SunRisingAI Lab。 [来源 1](https://arxiv.org/abs/2610.22825)、[来源 2](https://arxiv.org/html/2610.22825v1) |
+| [DriveWorld3D Evidence Constrained 3D World Modeling and Generative Simulation for Real-World Autonomous Driving](https://arxiv.org/abs/2610.22450) | 暂缓 | 首页明确这是待预注册的系统方案：尚未实现，也未在车上验证，没有报告性能提升。方案包含证据约束的三维状态和动作条件未来预测，范围相关，但没有可核验的学习动力学或实验。暂缓到实现和闭环结果出现。机构为 Robostreet。 [来源 1](https://arxiv.org/abs/2610.22450)、[来源 2](https://arxiv.org/pdf/2610.22450) |
+| [AWAM: Active Trajectory-Conditioned View Imagination for Robust Robot Manipulation](https://arxiv.org/abs/2610.23396) | 收录 | 虚拟相机轨迹查询几何条件世界模型，想象特征在首步去噪后压缩成记忆，推理不完成 RGB 生成。LIBERO-Occ 全 2000 例，去掉记忆 75.9%→64.4%，随机视角替代学习轨迹再降 5.7 个百分点。三真机任务各 30 次，85/90 对 π0 的 66/90。作者写明想象的是观察轨迹而非机器人执行后果，记忆只在初始构建且不更新，故只标 closedloop。代码待接收后发布。 [来源 1](https://arxiv.org/abs/2610.23396)、[来源 2](https://arxiv.org/html/2610.23396v1) |
+| [LAW: Unifying Language, Action, and World Modeling for Agentic Physical Intelligence](https://arxiv.org/abs/2610.23334) | 收录 | 最新 v2。MoTE-WAM 训练期联合视频与动作，图 2 写明未来视频只在训练使用。50 个 RoboTwin 任务平均 94.21%，Fast-WAM 91.83%；换成 OpenWAM-α 为 95.56%。匹配参数量时共享专家 91.93%→92.67%。三真机长程任务各 20 次，65% 对 π0.5 的 28.33% 和 Fast-WAM 的 25%。推理不生成未来视频，只标 closedloop。项目页与代码链接已返回。 [来源 1](https://arxiv.org/abs/2610.23334)、[来源 2](https://arxiv.org/html/2610.23334v2)、[来源 3](https://hey-cjj.github.io/LAW-project/)、[来源 4](https://github.com/hey-cjj/LAW) |
+| [ORD-WM: Learning Object-Centric Rigid Dynamics for 3D World Modeling in Robotic Manipulation](https://arxiv.org/abs/2610.23156) | 收录 | 动作条件预测物体 SE(3) 增量并解析更新几何潜变量。表 1 全程运动点 ℓ2 为 37.60 mm，LIBERO 微调 PointWorld 为 225.68 mm；形状一致性 Chamfer 为 0，这是刚体更新的构造结果。真机推动表 3：64/256/1024 候选对应 10%/70%/90%，1024 候选位置误差 0.972 cm、RTX 3090 每步规划 269.9 ms；表未给出试验次数。不覆盖关节或可变形物体，不把规划时间标成实时。标 action/closedloop。项目页已核验。 [来源 1](https://arxiv.org/abs/2610.23156)、[来源 2](https://arxiv.org/html/2610.23156v1)、[来源 3](https://hitsz-wyy.github.io/ORD-WM/) |
+| [BeJEPA: A Goal-Conditioned Humanoid Behavior World Model via Unsupervised RL](https://arxiv.org/abs/2610.23127) | 收录 | Dynamic 按动作预测下一状态嵌入，Successor 汇总目标条件下的折扣未来，在线只用一步物理预测修正动作。20 秒 AMASS 跟踪中，全局身体位置误差相对带世界位姿的 BFM-Zero 下降 61.7%，相对 SONIC 下降 58.7%。Unitree G1 的踢后回位和倒地起身是定性闭环，没有成功率或重复次数。仿真 50 Hz 不标实时。机构来自首页。项目页已核验。 [来源 1](https://arxiv.org/abs/2610.23127)、[来源 2](https://arxiv.org/html/2610.23127v1)、[来源 3](https://ylyem9x.github.io/BeJEPA-project/) |
+| [Beyond Action Prediction: Learning Search-Free Planning in Latent Space](https://arxiv.org/abs/2610.23615) | 收录 | 简称 HIJP。动作条件潜预测与目标条件逆模型一起训练，预测动作要经过预测器并与下一观测对齐。TwoRoom、Reacher、PushT、OGCube 各四档、每档 50 次，总成功率 86.8%，高于最强基线 4.9 个百分点。去掉转移一致性后 12 个组合平均 82.5%→76.0%。RTX 4090 上相对 LeWM 的加速是规划时间，不标 realtime。只在仿真、固定时程，归具身。无项目或代码链接。 [来源 1](https://arxiv.org/abs/2610.23615)、[来源 2](https://arxiv.org/html/2610.23615v1) |
